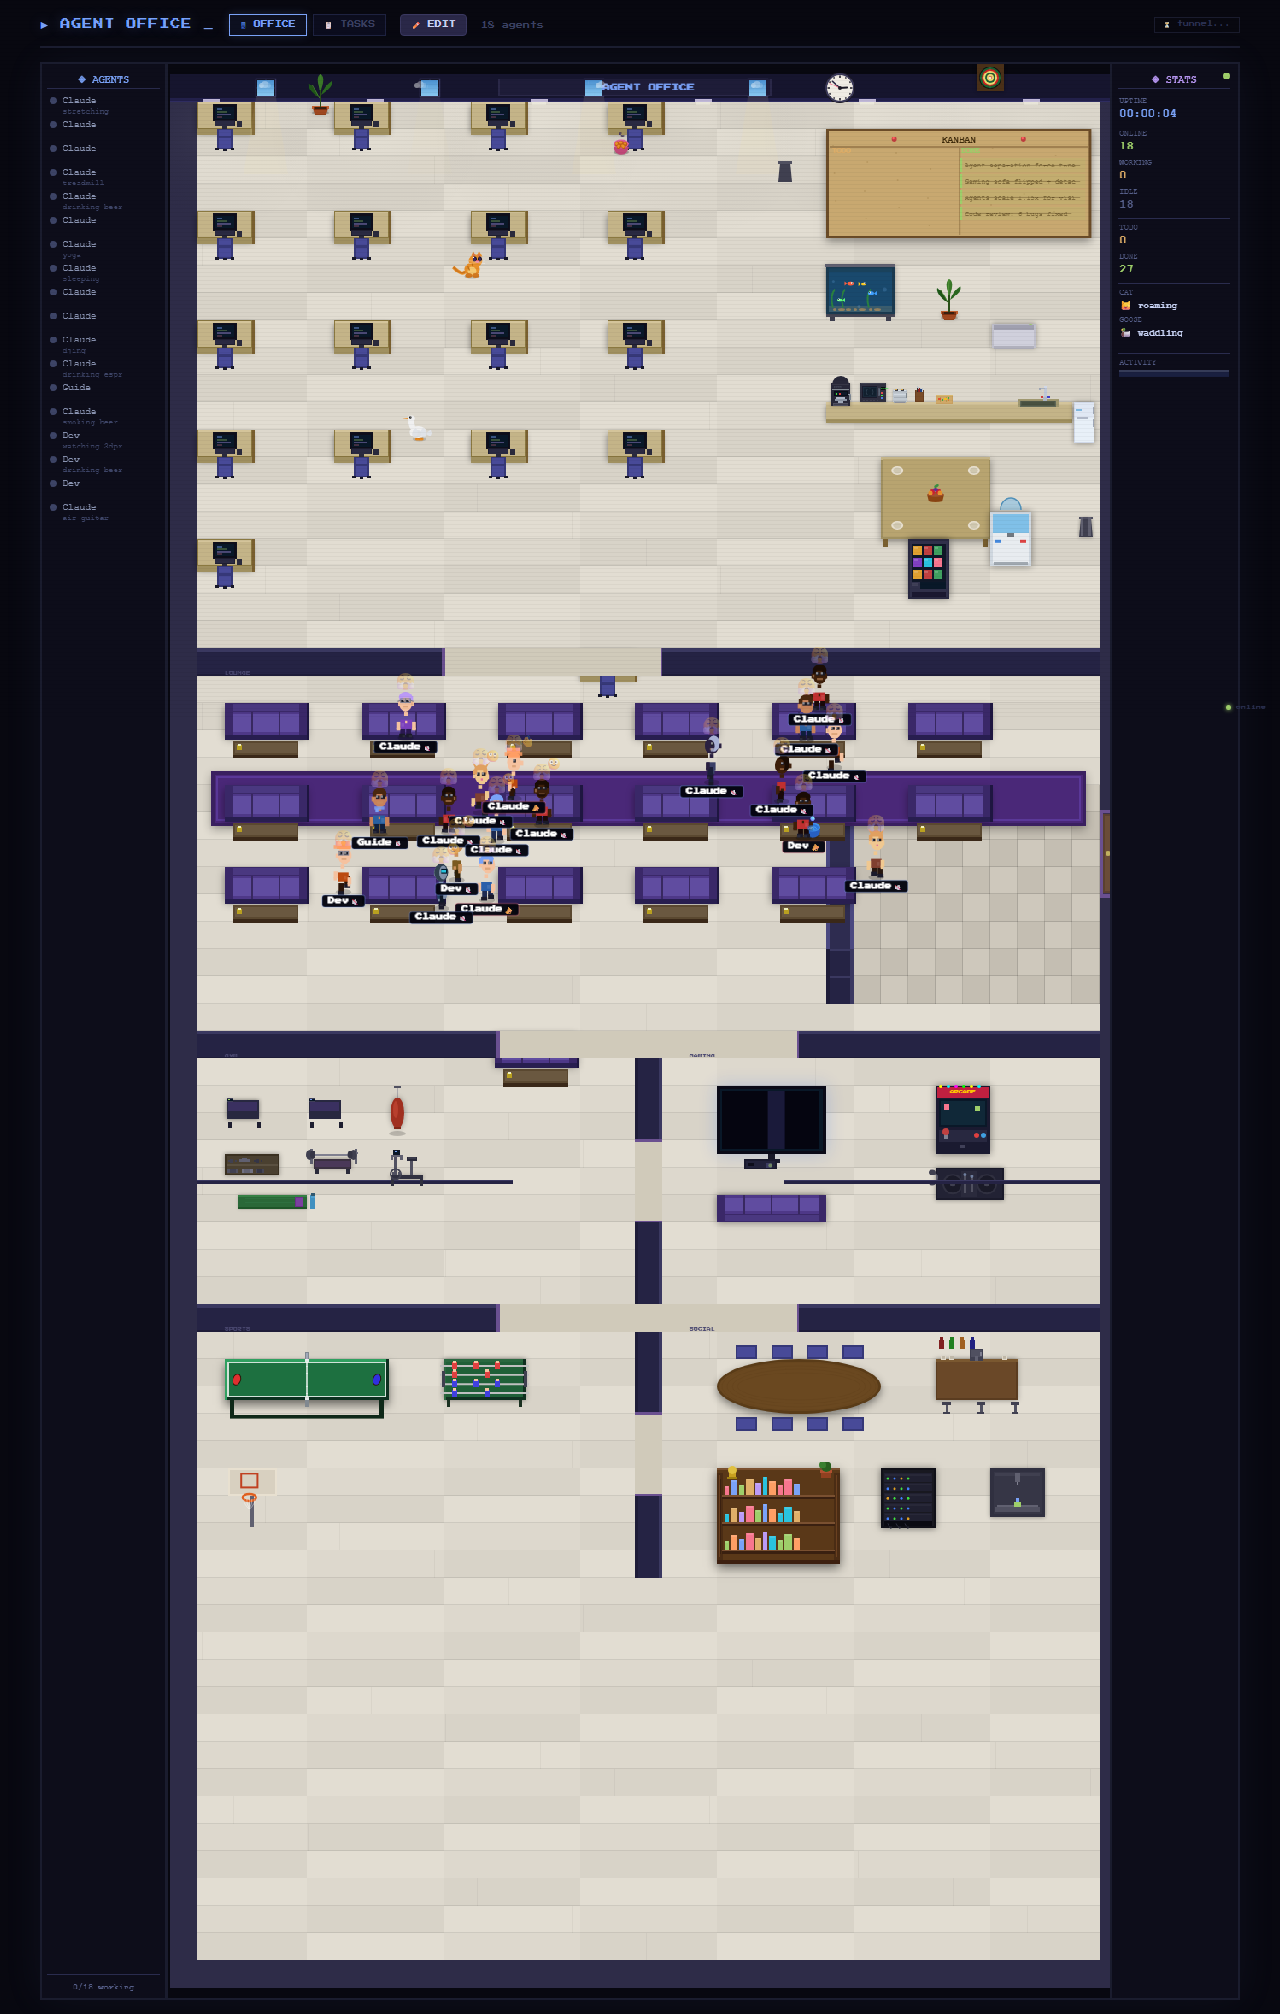
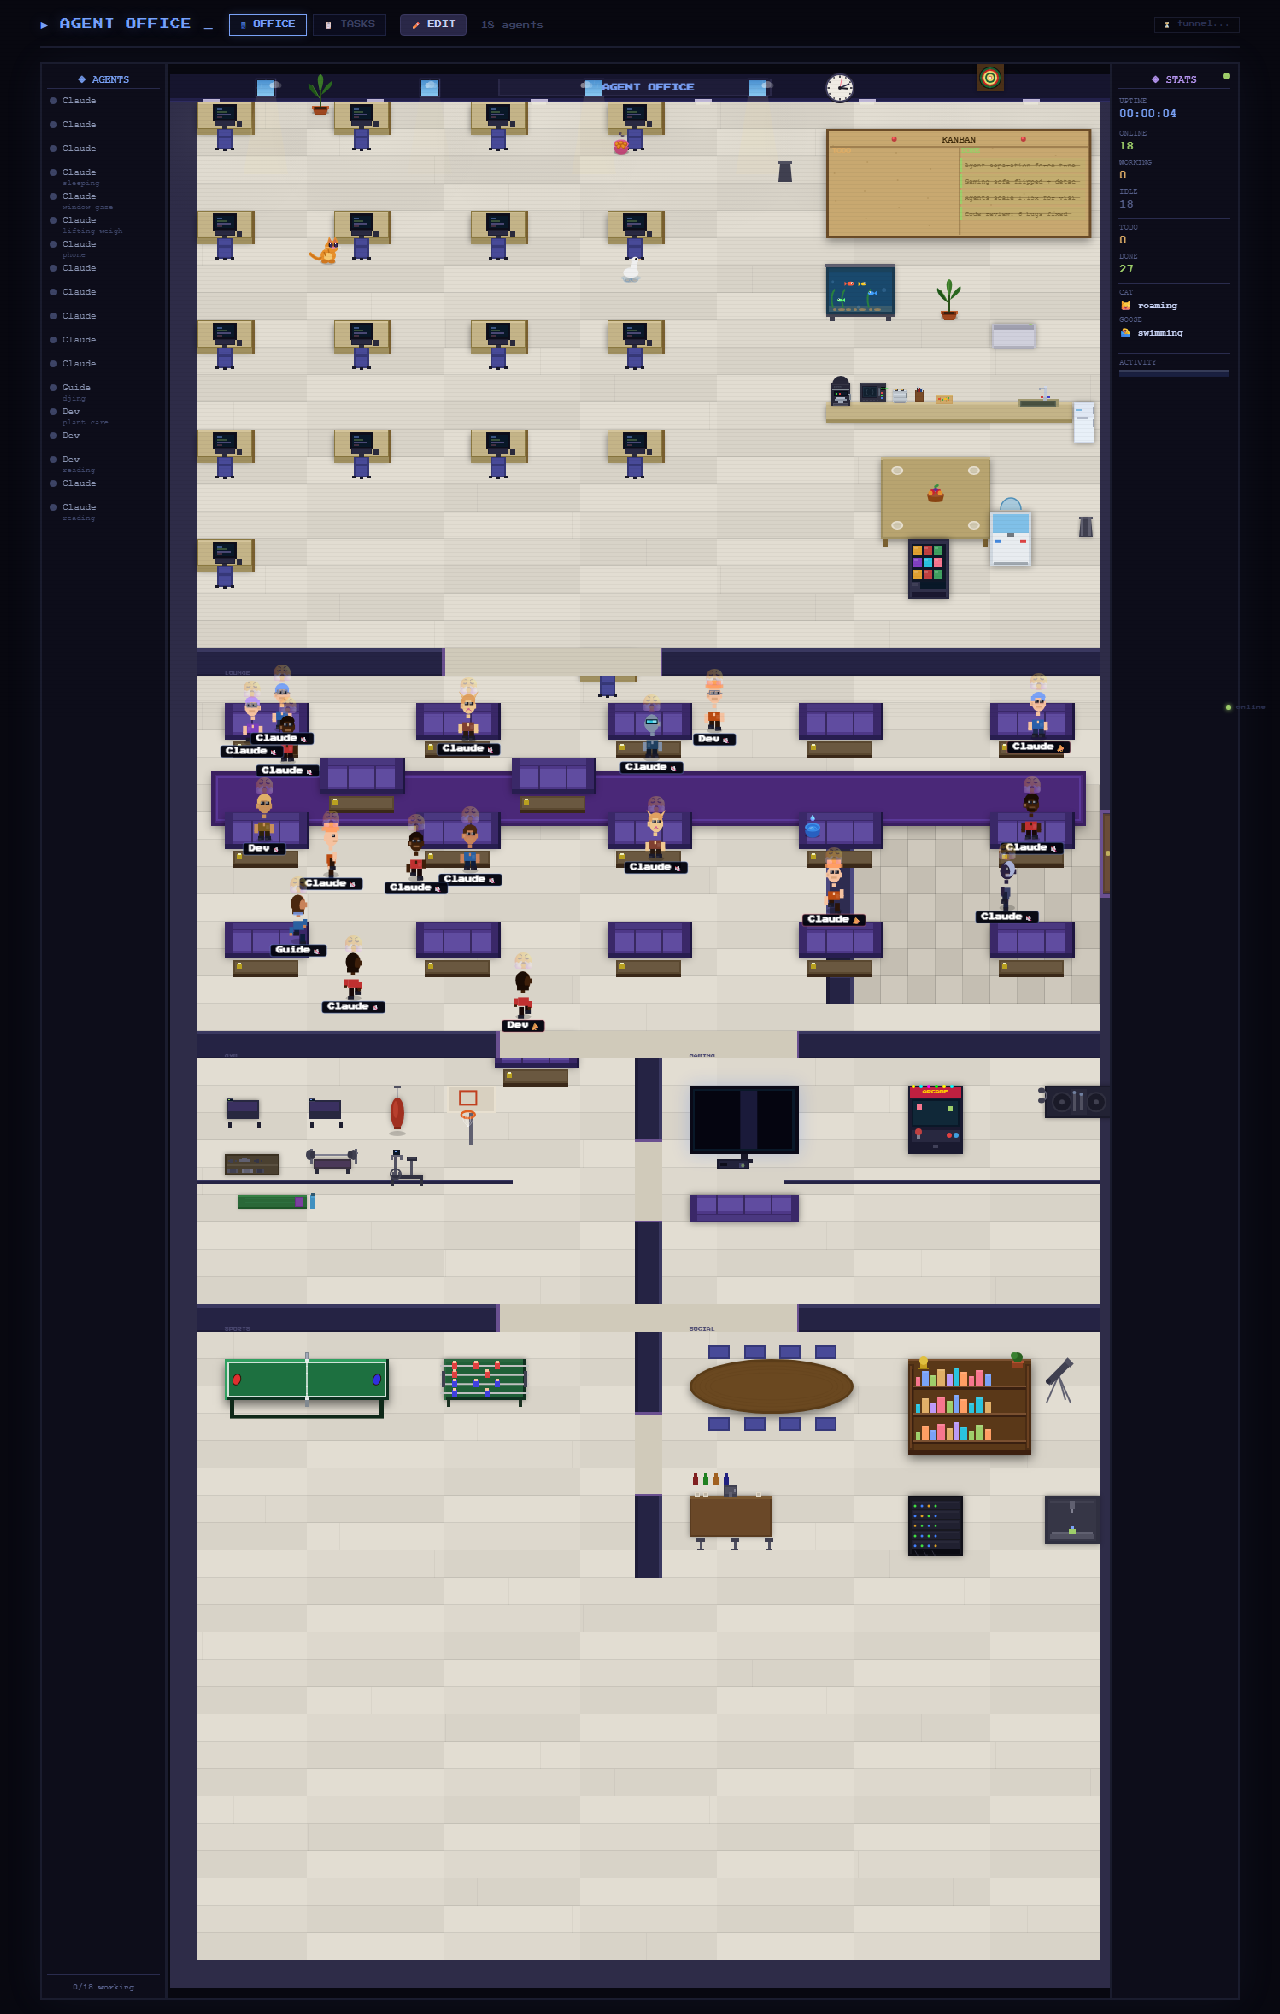
fix: spread objects evenly across rooms, wider couch spacing
- Couches: 5 per row with 7-tile gaps (was 5-tile)
- Gym: added basketball
- Gaming: arcade + DJ spread to right side
- Social: telescope moved here, objects spread evenly
- Removed duplicate telescope from right panel

diff --git a/public/index.html b/public/index.html
@@ -7862,7 +7862,6 @@ const BUILTIN_POSITIONS = {
   "clock": {"tx": 24, "ty": 0},
   "darts": {"tx": 30, "ty": 0},
   "kanban": {"tx": 24, "ty": 2},
-  "telescope": {"tx": 30, "ty": 3},
   "aquarium": {"tx": 24, "ty": 7},
   "printer": {"tx": 30, "ty": 9},
   "plant_0": {"tx": 5, "ty": 0.5},
@@ -7876,45 +7875,46 @@ const BUILTIN_POSITIONS = {
   "cooler": {"tx": 30, "ty": 16},
   "vending": {"tx": 27, "ty": 17},
 
-  // ═══ LOUNGE (rows 22-34) ═══
+  // ═══ LOUNGE (rows 22-34) — spacious, 4 per row with gaps ═══
   "couch_0": {"tx": 2, "ty": 23},
-  "couch_1": {"tx": 7, "ty": 23},
-  "couch_2": {"tx": 12, "ty": 23},
-  "couch_3": {"tx": 17, "ty": 23},
-  "couch_4": {"tx": 22, "ty": 23},
-  "couch_5": {"tx": 2, "ty": 26},
-  "couch_6": {"tx": 7, "ty": 26},
-  "couch_7": {"tx": 12, "ty": 26},
-  "couch_8": {"tx": 17, "ty": 26},
-  "couch_9": {"tx": 22, "ty": 26},
-  "couch_10": {"tx": 2, "ty": 29},
-  "couch_11": {"tx": 7, "ty": 29},
-  "couch_12": {"tx": 12, "ty": 29},
-  "couch_13": {"tx": 17, "ty": 29},
-  "couch_14": {"tx": 22, "ty": 29},
-  "couch_15": {"tx": 27, "ty": 23},
-  "couch_16": {"tx": 27, "ty": 26},
+  "couch_1": {"tx": 9, "ty": 23},
+  "couch_2": {"tx": 16, "ty": 23},
+  "couch_3": {"tx": 23, "ty": 23},
+  "couch_4": {"tx": 30, "ty": 23},
+  "couch_5": {"tx": 2, "ty": 27},
+  "couch_6": {"tx": 9, "ty": 27},
+  "couch_7": {"tx": 16, "ty": 27},
+  "couch_8": {"tx": 23, "ty": 27},
+  "couch_9": {"tx": 30, "ty": 27},
+  "couch_10": {"tx": 2, "ty": 31},
+  "couch_11": {"tx": 9, "ty": 31},
+  "couch_12": {"tx": 16, "ty": 31},
+  "couch_13": {"tx": 23, "ty": 31},
+  "couch_14": {"tx": 30, "ty": 31},
+  "couch_15": {"tx": 5.5, "ty": 25},
+  "couch_16": {"tx": 12.5, "ty": 25},
 
-  // ═══ GYM ROOM (rows 36-44, cols 1-16) ═══
+  // ═══ GYM ROOM (rows 36-44, cols 1-16) — spread equipment ═══
   "gym": {"tx": 2, "ty": 37},
+  "basketball": {"tx": 10, "ty": 37},
 
-  // ═══ GAMING ROOM (rows 36-44, cols 18-34) ═══
-  "tv": {"tx": 20, "ty": 37},
-  "gaming_sofa": {"tx": 20, "ty": 41},
-  "arcade": {"tx": 28, "ty": 37},
-  "dj_console": {"tx": 28, "ty": 40},
+  // ═══ GAMING ROOM (rows 36-44, cols 18-34) — entertainment spread ═══
+  "tv": {"tx": 19, "ty": 37},
+  "gaming_sofa": {"tx": 19, "ty": 41},
+  "arcade": {"tx": 27, "ty": 37},
+  "dj_console": {"tx": 32, "ty": 37},
 
-  // ═══ SPORTS ROOM (rows 46-54, cols 1-16) ═══
+  // ═══ SPORTS ROOM (rows 46-54, cols 1-16) — games spread ═══
   "pingpong": {"tx": 2, "ty": 47},
   "foosball": {"tx": 10, "ty": 47},
-  "basketball": {"tx": 2, "ty": 51},
 
-  // ═══ SOCIAL ROOM (rows 46-54, cols 18-34) ═══
-  "conf_table": {"tx": 20, "ty": 47},
-  "espresso_bar": {"tx": 28, "ty": 47},
-  "bookshelf": {"tx": 20, "ty": 51},
-  "server_rack": {"tx": 26, "ty": 51},
-  "printer_3d": {"tx": 30, "ty": 51}
+  // ═══ SOCIAL ROOM (rows 46-54, cols 18-34) — relax spread ═══
+  "conf_table": {"tx": 19, "ty": 47},
+  "espresso_bar": {"tx": 19, "ty": 52},
+  "bookshelf": {"tx": 27, "ty": 47},
+  "server_rack": {"tx": 27, "ty": 52},
+  "printer_3d": {"tx": 32, "ty": 52},
+  "telescope": {"tx": 32, "ty": 47}
 };
 
 // Apply custom positions to actual game objects